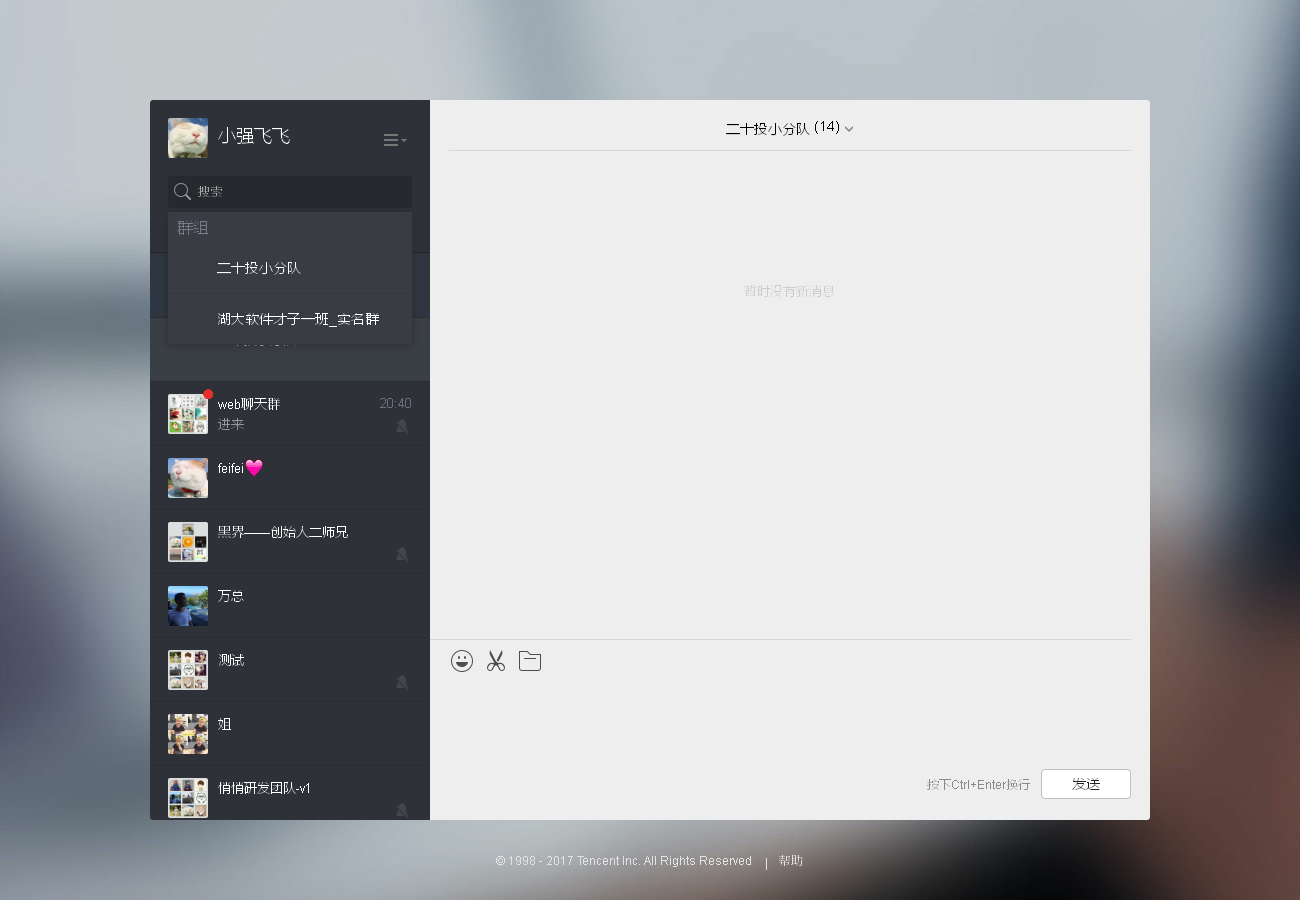
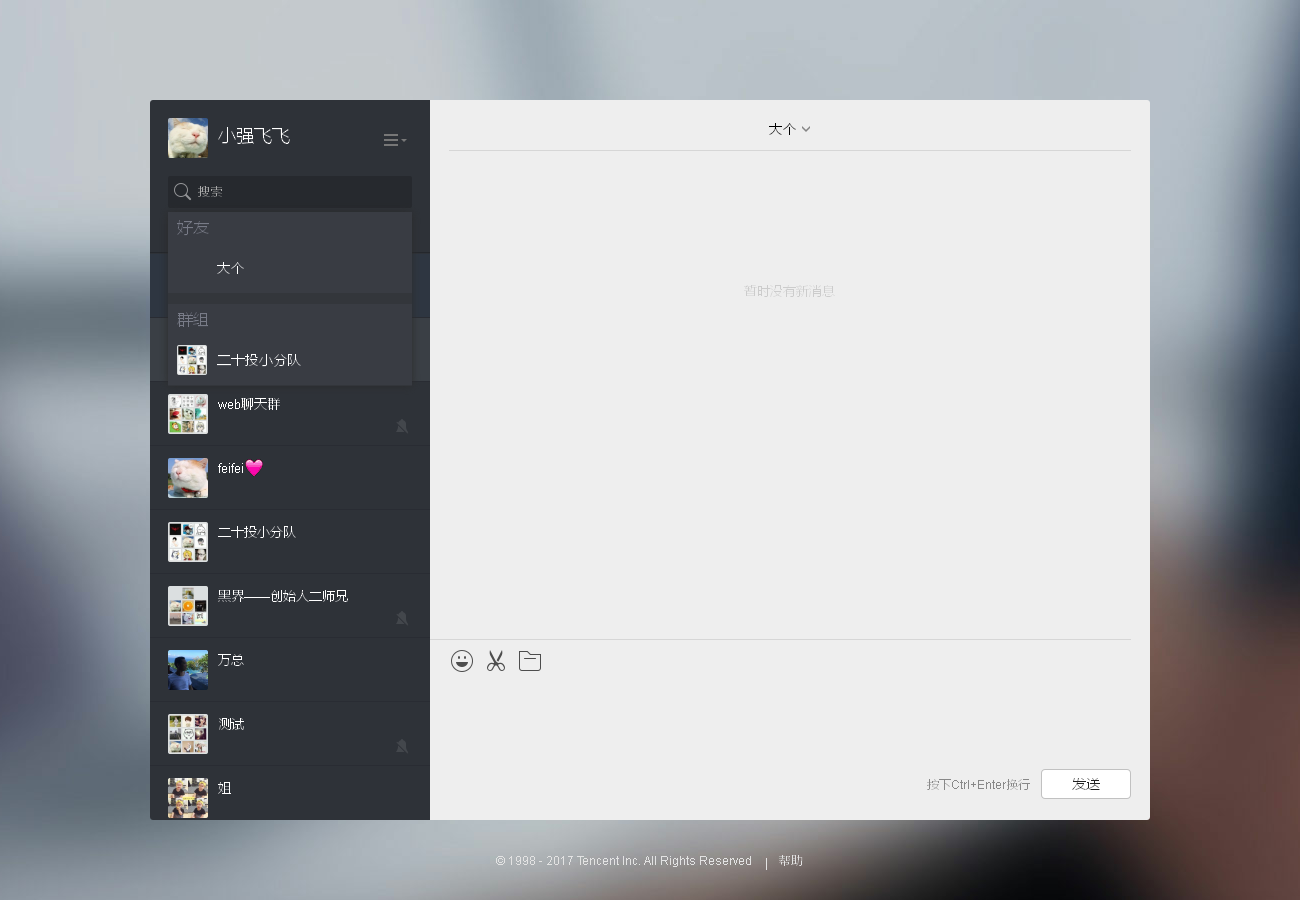
查询好友监听优化

diff --git a/index.js b/index.js
@@ -70,15 +70,19 @@ casper.then(function () {
 
     ts.waitForSelector(WXDOM.SEARCH_RESULT, function(){
         
-        ts.waitForSelector(WXDOM.SEARCH_RESULT_ONE, function(){
-            ts.echo('已加载搜索结果：./static/img/SEARCH_RESULT.png');
-            ts.click(WXDOM.SEARCH_RESULT_ONE+':first-child');
-            ts.captureSelector('./static/img/SEARCH_RESULT.png', 'html');
-        }, function(){
-            ts.echo('搜索结果为零，请确认目标微信号昵称是否在您的联系人列表中...', 'ERROR');
-            ts.captureSelector('./static/img/SEARCH_RESULT.png', 'html');
+        ts.waitForSelector(WXDOM.SEARCH_RESULT_FRIEND, function () {
+            ts.waitForText(CONST.TARGET_NICK, function () {
+                ts.echo('已加载搜索结果：./static/img/SEARCH_RESULT.png');
+                ts.click(WXDOM.SEARCH_RESULT_ONE);
+                ts.captureSelector('./static/img/SEARCH_RESULT.png', 'html');
+            }), function () {
+                ts.echo('搜索结果未出现匹配的好友..请检查目标微信号昵称是否好友', 'ERROR');
+                ts.exit();
+            }, 10 * 1000;
+        }, function () {
+            ts.echo('搜索结果为零，请确认目标微信号昵称是否在您的联系人列表中', 'ERROR');
             ts.exit();
-        }, 10*1000)
+        })
 
         // this.wait(4000, function(){
 

diff --git a/config/const.js b/config/const.js
@@ -4,5 +4,5 @@ module.exports = {
     'TARGET_NICK': '大个',
 
     //打招呼消息
-    'HELLO_WORLD': '[呲牙]你好。\n\r机器人[瓢虫]小强[瓢虫]已启动...'
+    'HELLO_WORLD': '你好。\n\r机器人[瓢虫]小强[瓢虫]已启动...'
 }
